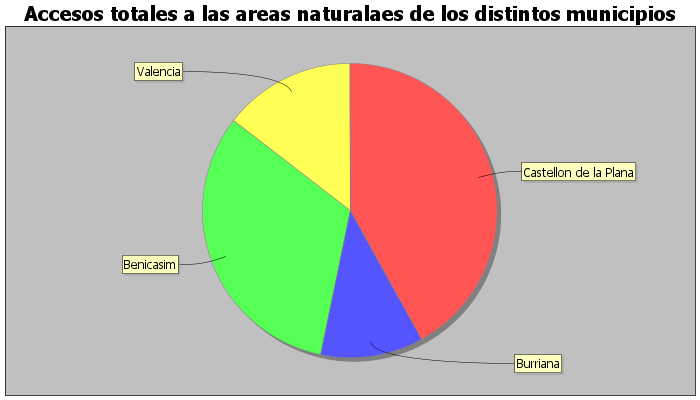
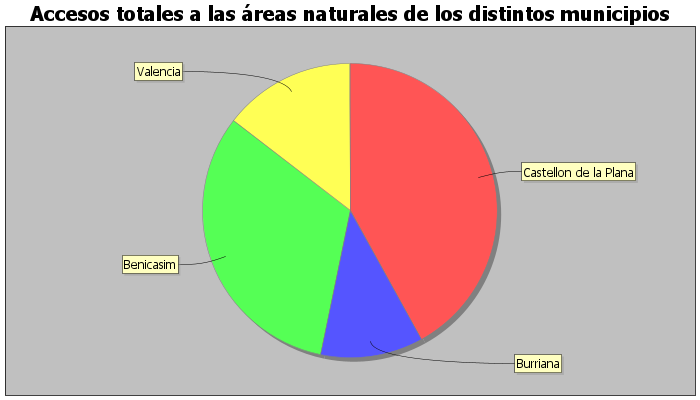
añadidos acentos en gráficos

Changed region(s): [[0.03, 0.0, 0.96, 0.06]]

diff --git a/src/main/java/es/uji/ei102720mgph/SANA/services/OccupationSvc.java b/src/main/java/es/uji/ei102720mgph/SANA/services/OccupationSvc.java
@@ -211,9 +211,7 @@ public class OccupationSvc implements OccupationService{
     public String getMunicipalitiesPlot() {
         String plotName = "municipalities.png";
         String path = uploadDirectory + "plots/" + plotName;
-
         File file = new File(path);
-
         List<Municipality> municipalities = municipalityDao.getMunicipalities();
 
         //Generamos el dataSet:
@@ -228,46 +226,38 @@ public class OccupationSvc implements OccupationService{
 
         //Generamos el chart
         JFreeChart chart = ChartFactory.createPieChart(
-                "Accesos totales a las areas naturalaes de los distintos municipios",
+                "Accesos totales a las áreas naturales de los distintos municipios",
                 dataset,
                 false, true, false);
 
         saveChart(file, chart);
-
         return "plots/" + plotName;
     }
 
     public String getMunicipalityPlot(String municipality){
         String plotName = "municipality.png";
         String path = uploadDirectory + "plots/" + plotName;
-
         File file = new File(path);
-
         List<NaturalArea> naturalAreas = naturalAreaDao.getRestrictedNaturalAreas();
-
 
         //Generamos el dataSet:
         DefaultPieDataset dataset = new DefaultPieDataset();
         int occupancy;
 
-        for(NaturalArea naturalArea: naturalAreas){
+        for(NaturalArea naturalArea: naturalAreas)
             if (naturalArea.getMunicipality().equals(municipality)){
                 occupancy = getOccupancy(
                         reservationDao.getReservationsOfNaturalArea(naturalArea.getName()));
                 if (occupancy > 0) dataset.setValue(naturalArea.getName(), occupancy);
             }
 
-        }
-
         //Generamos el chart
         JFreeChart chart = ChartFactory.createPieChart(
-                "Accesos totales en las distintas areas naturales de " + municipality,
+                "Accesos totales en las distintas áreas naturales de " + municipality,
                 dataset,
                 false, true, false);
 
         saveChart(file, chart);
-
         return "plots/" + plotName;
     }
-
 }
